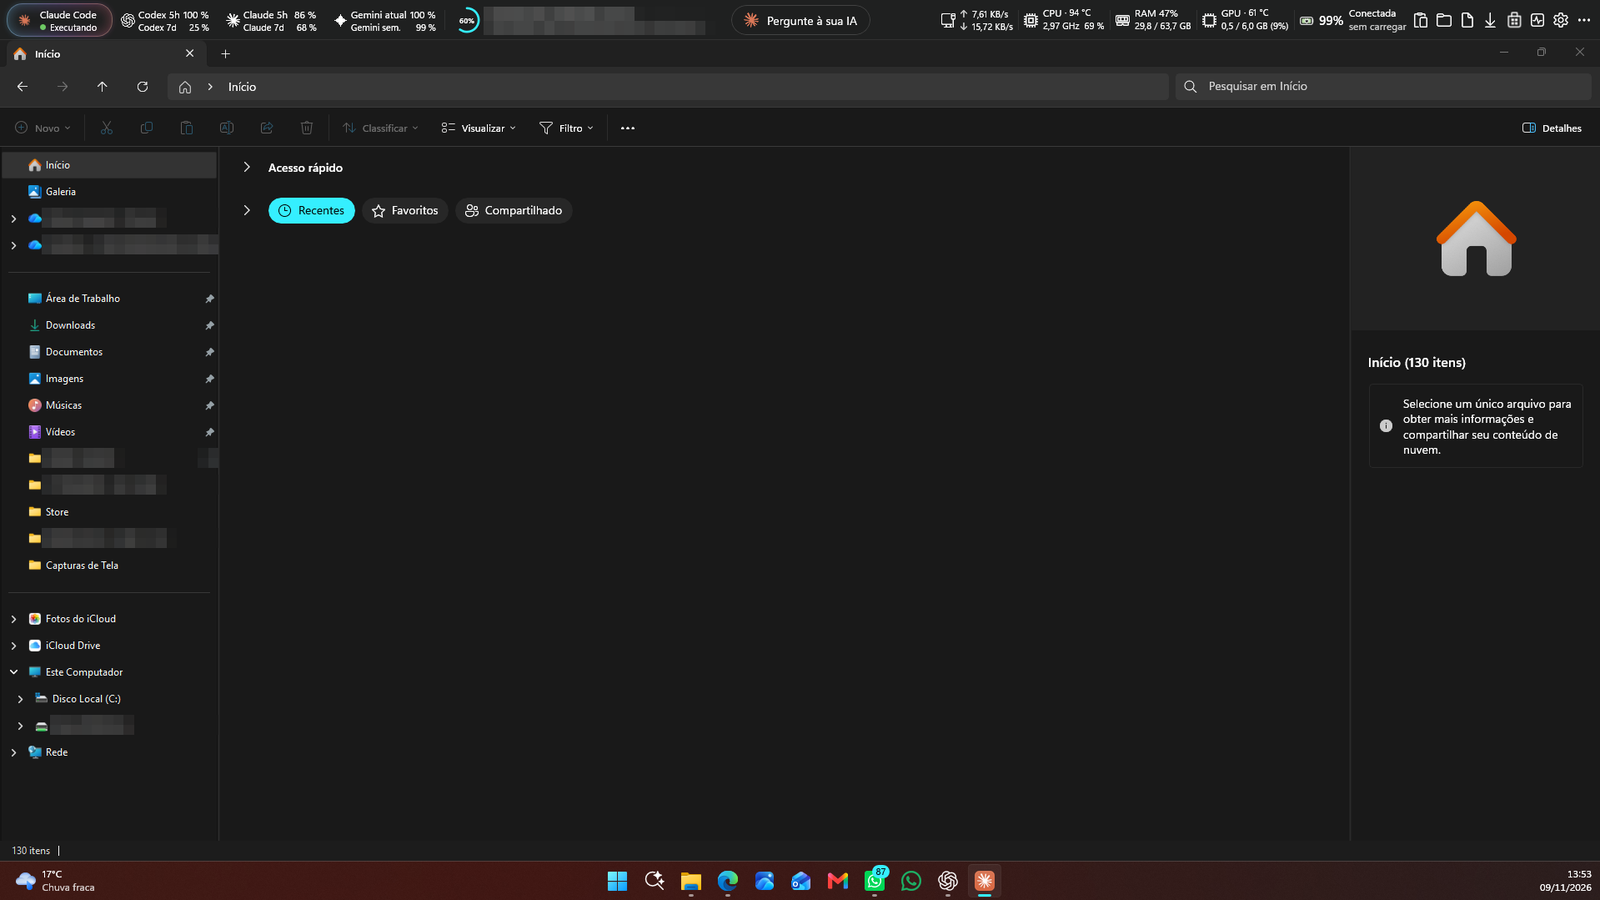
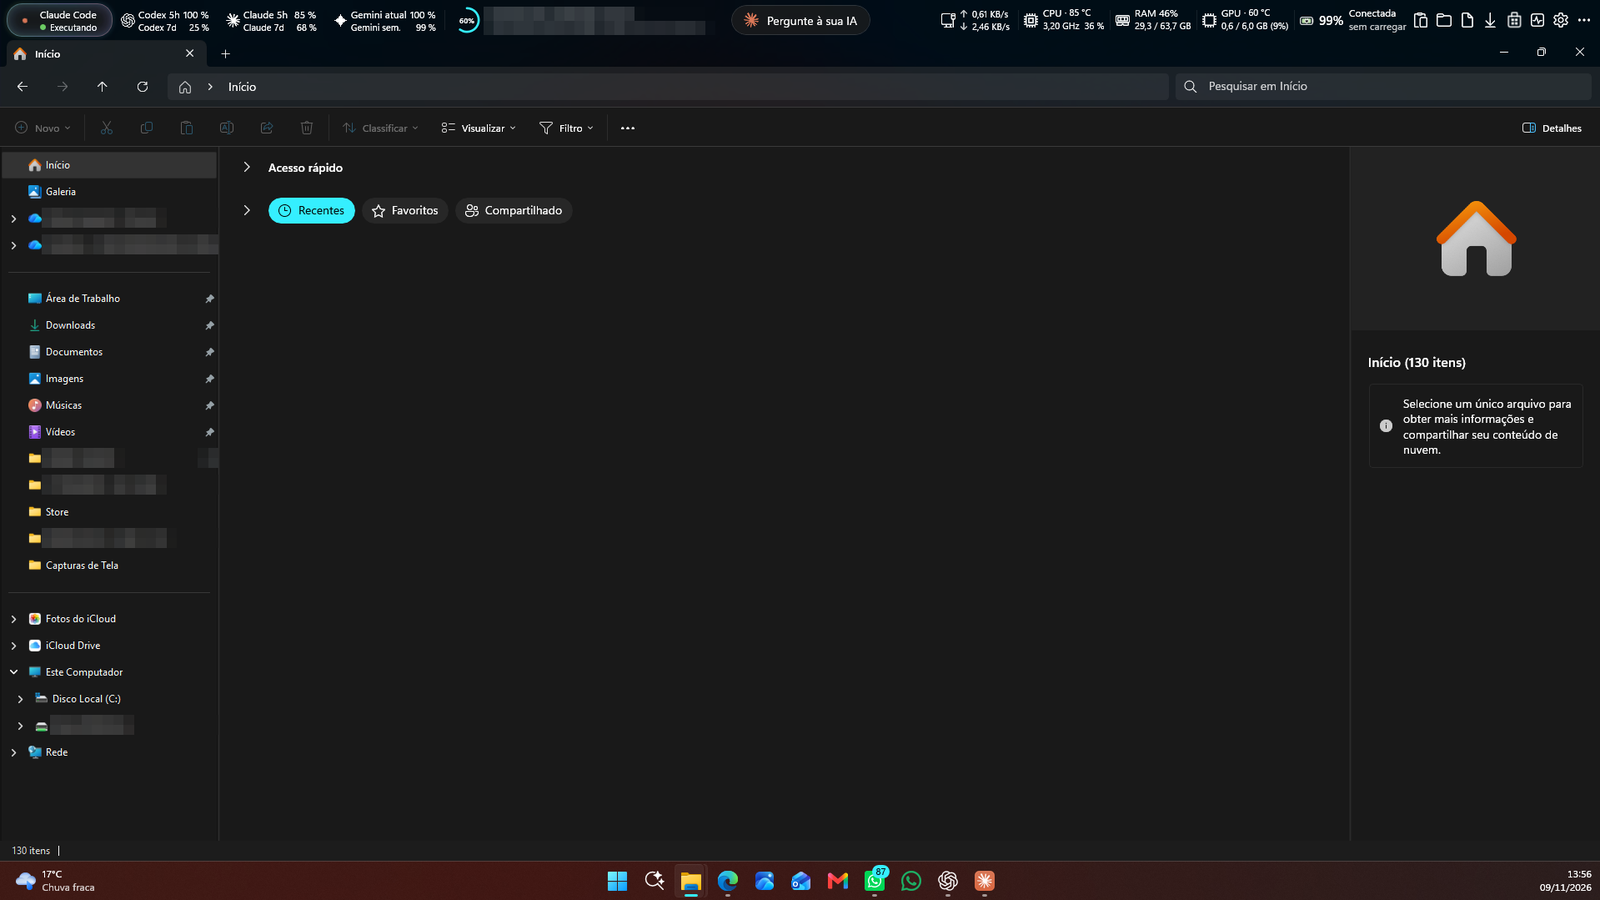
README: File Explorer shot with Mica

Changed region(s): [[0.0, 0.0, 1.0, 0.0933]]

diff --git a/README.md b/README.md
@@ -42,7 +42,7 @@ The bar blends into whatever is below it. Over a maximized window it takes on th
     <td width="50%" align="center"><b>Over Claude</b><br><img src="docs/screenshots/integration-claude.png" alt="WinStatusBar above a maximized Claude window, matching its title bar (personal items blurred)"></td>
   </tr>
   <tr>
-    <td width="50%" align="center"><b>Over File Explorer</b><br><img src="docs/screenshots/integration-explorer.png" alt="WinStatusBar above a maximized File Explorer window, matching its tab bar (personal folders blurred)"></td>
+    <td width="50%" align="center"><b>Over File Explorer</b><br><img src="docs/screenshots/integration-explorer.png" alt="WinStatusBar above a maximized File Explorer window, matching its Mica tab bar (personal folders blurred)"></td>
     <td width="50%" align="center"><b>Over the desktop</b><br><img src="docs/screenshots/integration-desktop.png" alt="WinStatusBar transparent over the wallpaper, with text that adapts for contrast"></td>
   </tr>
   <tr>
